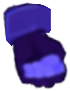
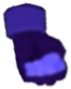
tweaked cape and added head pat sprites for Nova and Aetherling

diff --git a/src/tools/capeLab.html b/src/tools/capeLab.html
@@ -108,12 +108,12 @@ const L = {            // LOOK
   mode: "tendrils", tCount: 5, tSplit: 0.4, tAmp: 28, tSpeed: 5, tSpread: 0.45, tTaper: 0.8, tOverlap: 0.35, tLenVar: 0.3, tWaves: 1.25, tIdle: 0.45, tGain: 0.9,
   disSparks: 0.3, disColA: "#c8fcff", disColB: "#dc4ce8",
 };
-const PIN = { ax: 167, ay: 165, bx: 232, by: 165 };           // THE TWO PINK MARKERS: CLOAK ATTACH POINTS (ART PX). STARTING POINT = nova's SAVED PINS CONVERTED FROM THE 800 PX RIGHT VIEW. 1-PIN MODE USES THEIR MIDPOINT. IN DEBUG MODE (G) DRAG THE DOTS.
+const PIN = { ax: 186, ay: 138, bx: 194, by: 183 };           // THE TWO PINK MARKERS: CLOAK ATTACH POINTS (ART PX). STARTING POINT = nova's SAVED PINS CONVERTED FROM THE 800 PX RIGHT VIEW. 1-PIN MODE USES THEIR MIDPOINT. IN DEBUG MODE (G) DRAG THE DOTS.
 
 const PRESETS = {
   STABLE: {},
   OLD: { // INDEX.HTML MODE 2 RECIPE: NO RELATIVE-WIND DRAG, NO REST SHAPE, NO ANGLE LIMITS, NAIVE FLIP
-    C: { segments: 12, segLen: 11, gravity: 2000, drag: 3.6, nDrag: 0, tDrag: 0, lift: 0.8, flutter: 1400, backBias: 2000,
+    C: { segments: 10, segLen: 9, gravity: 1800, drag: 3.6, nDrag: 0, tDrag: 0, lift: 0.8, flutter: 1400, backBias: 3000,
          restPull: 0, iterations: 6, bend: 0.32, spanMin: 0, maxBendDeg: 180, collide: false, turnMode: "snap", turnTime: 0, sag: 0.55, attach: "one" },
   },
   LOOSE: { // STABLE BUT FLOPPY: SEE HOW MUCH THE LIMITS ARE DOING

diff --git a/src/tools/play.html b/src/tools/play.html
@@ -61,7 +61,7 @@ const LABEL_KEYS = {
 };
 
 /* ---------- PLAYER SHEETS (ONE ROW OF 400x400 FRAMES EACH) ---------- */
-const PLAYER_FRAME = 400, SCALE = 0.5, FIXED_DT = 1 / 50;
+const PLAYER_FRAME = 400, SCALE = 0.9, FIXED_DT = 1 / 50; // TEMPORARILY SCALED TO 0.9 TO TEST SPRITE SHEETS
 const SHEET_DIR = 'assets/images/nova/sprites/';
 const PLAYER_SHEETS = {
   run:        { src: 'run.png',        frames: 8 },
